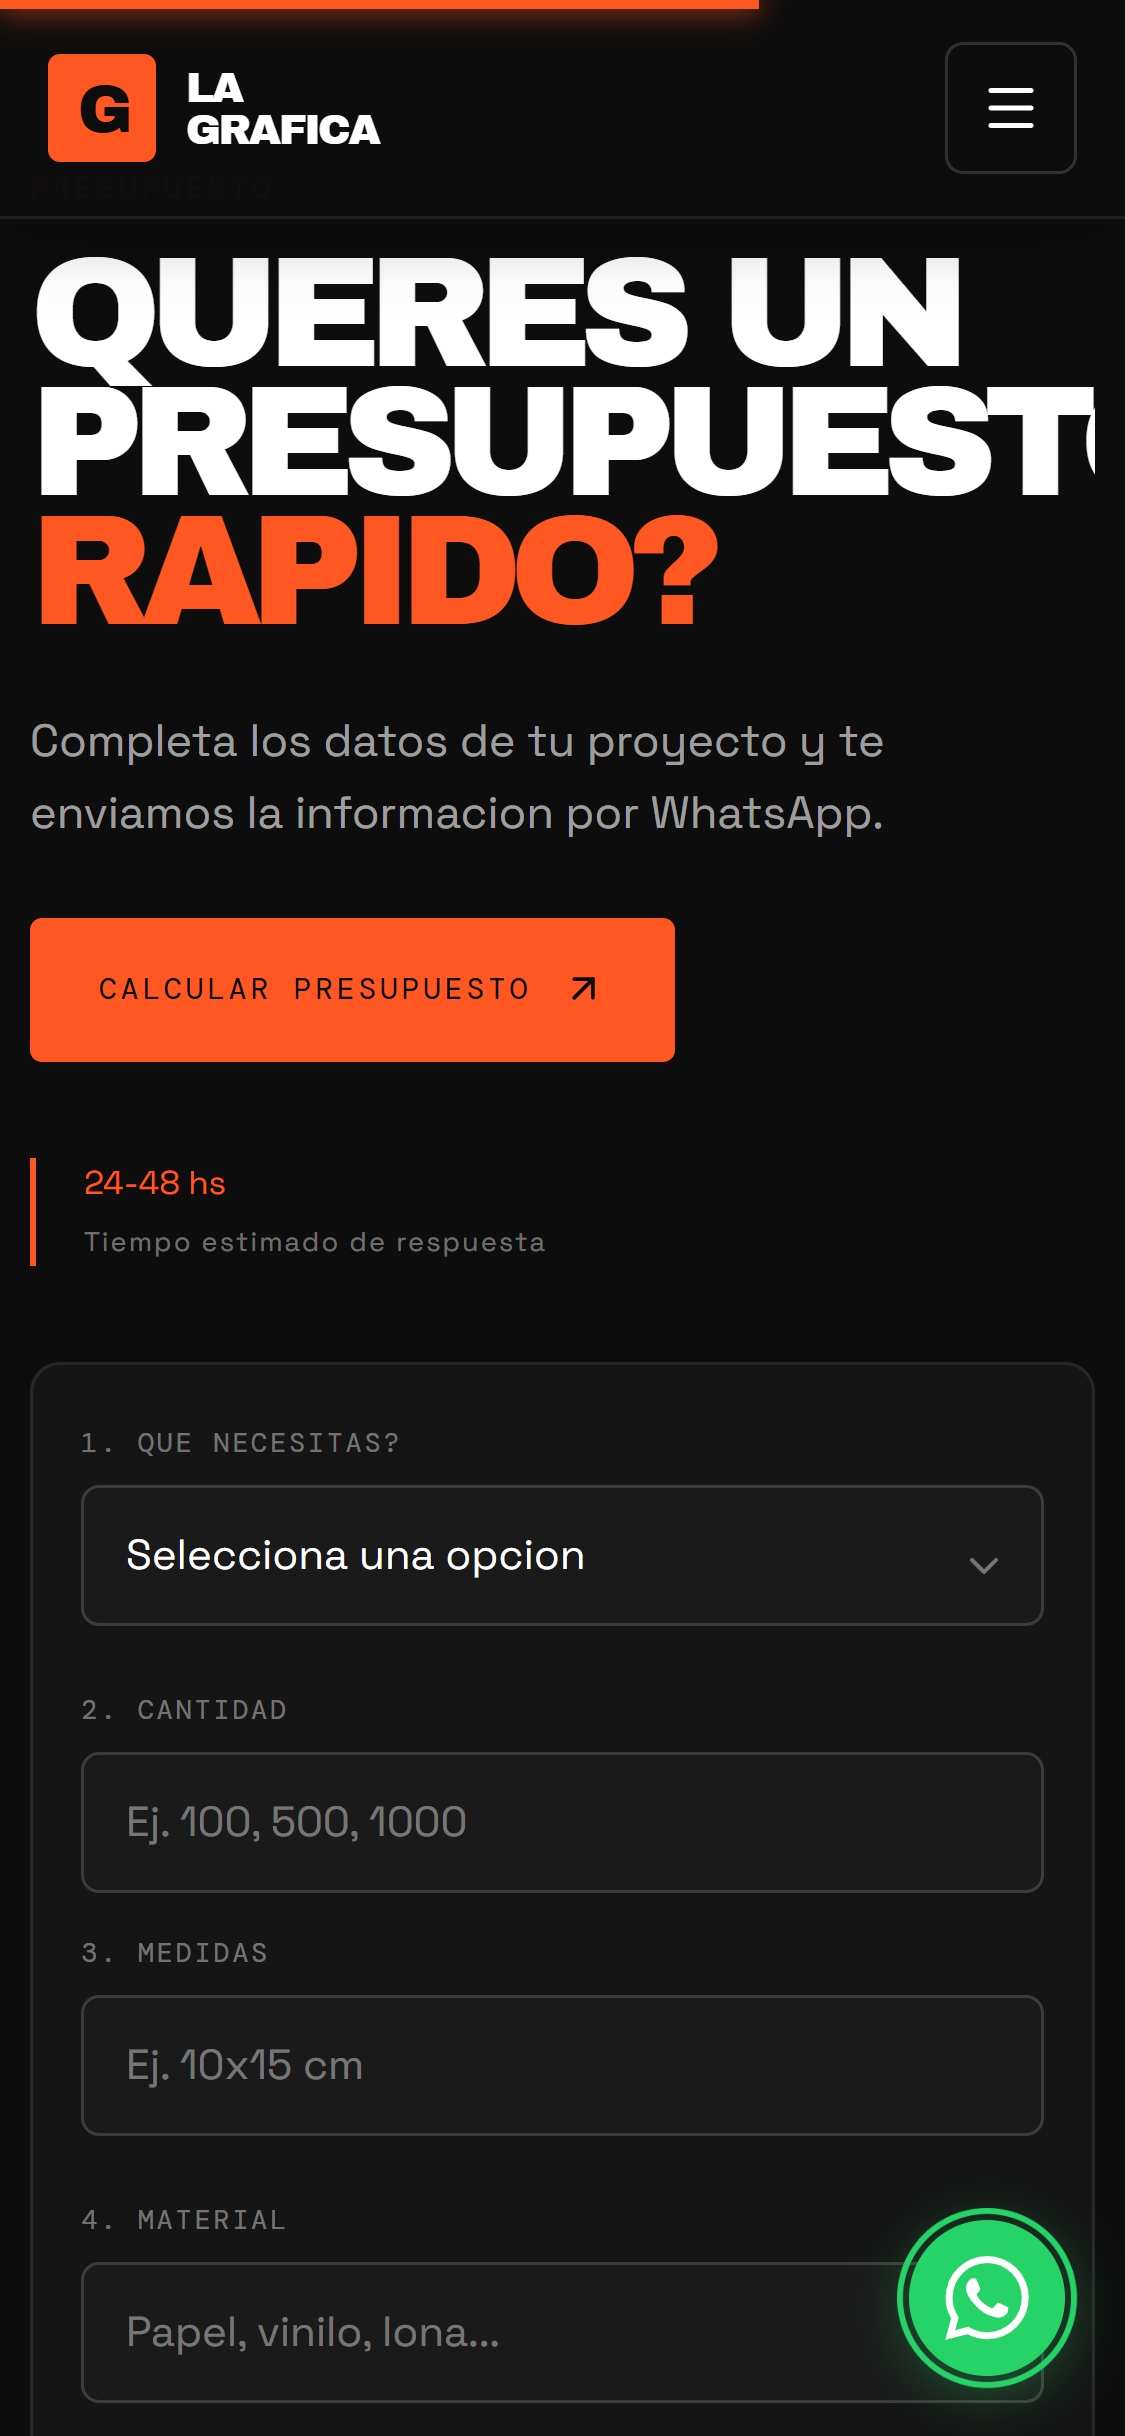
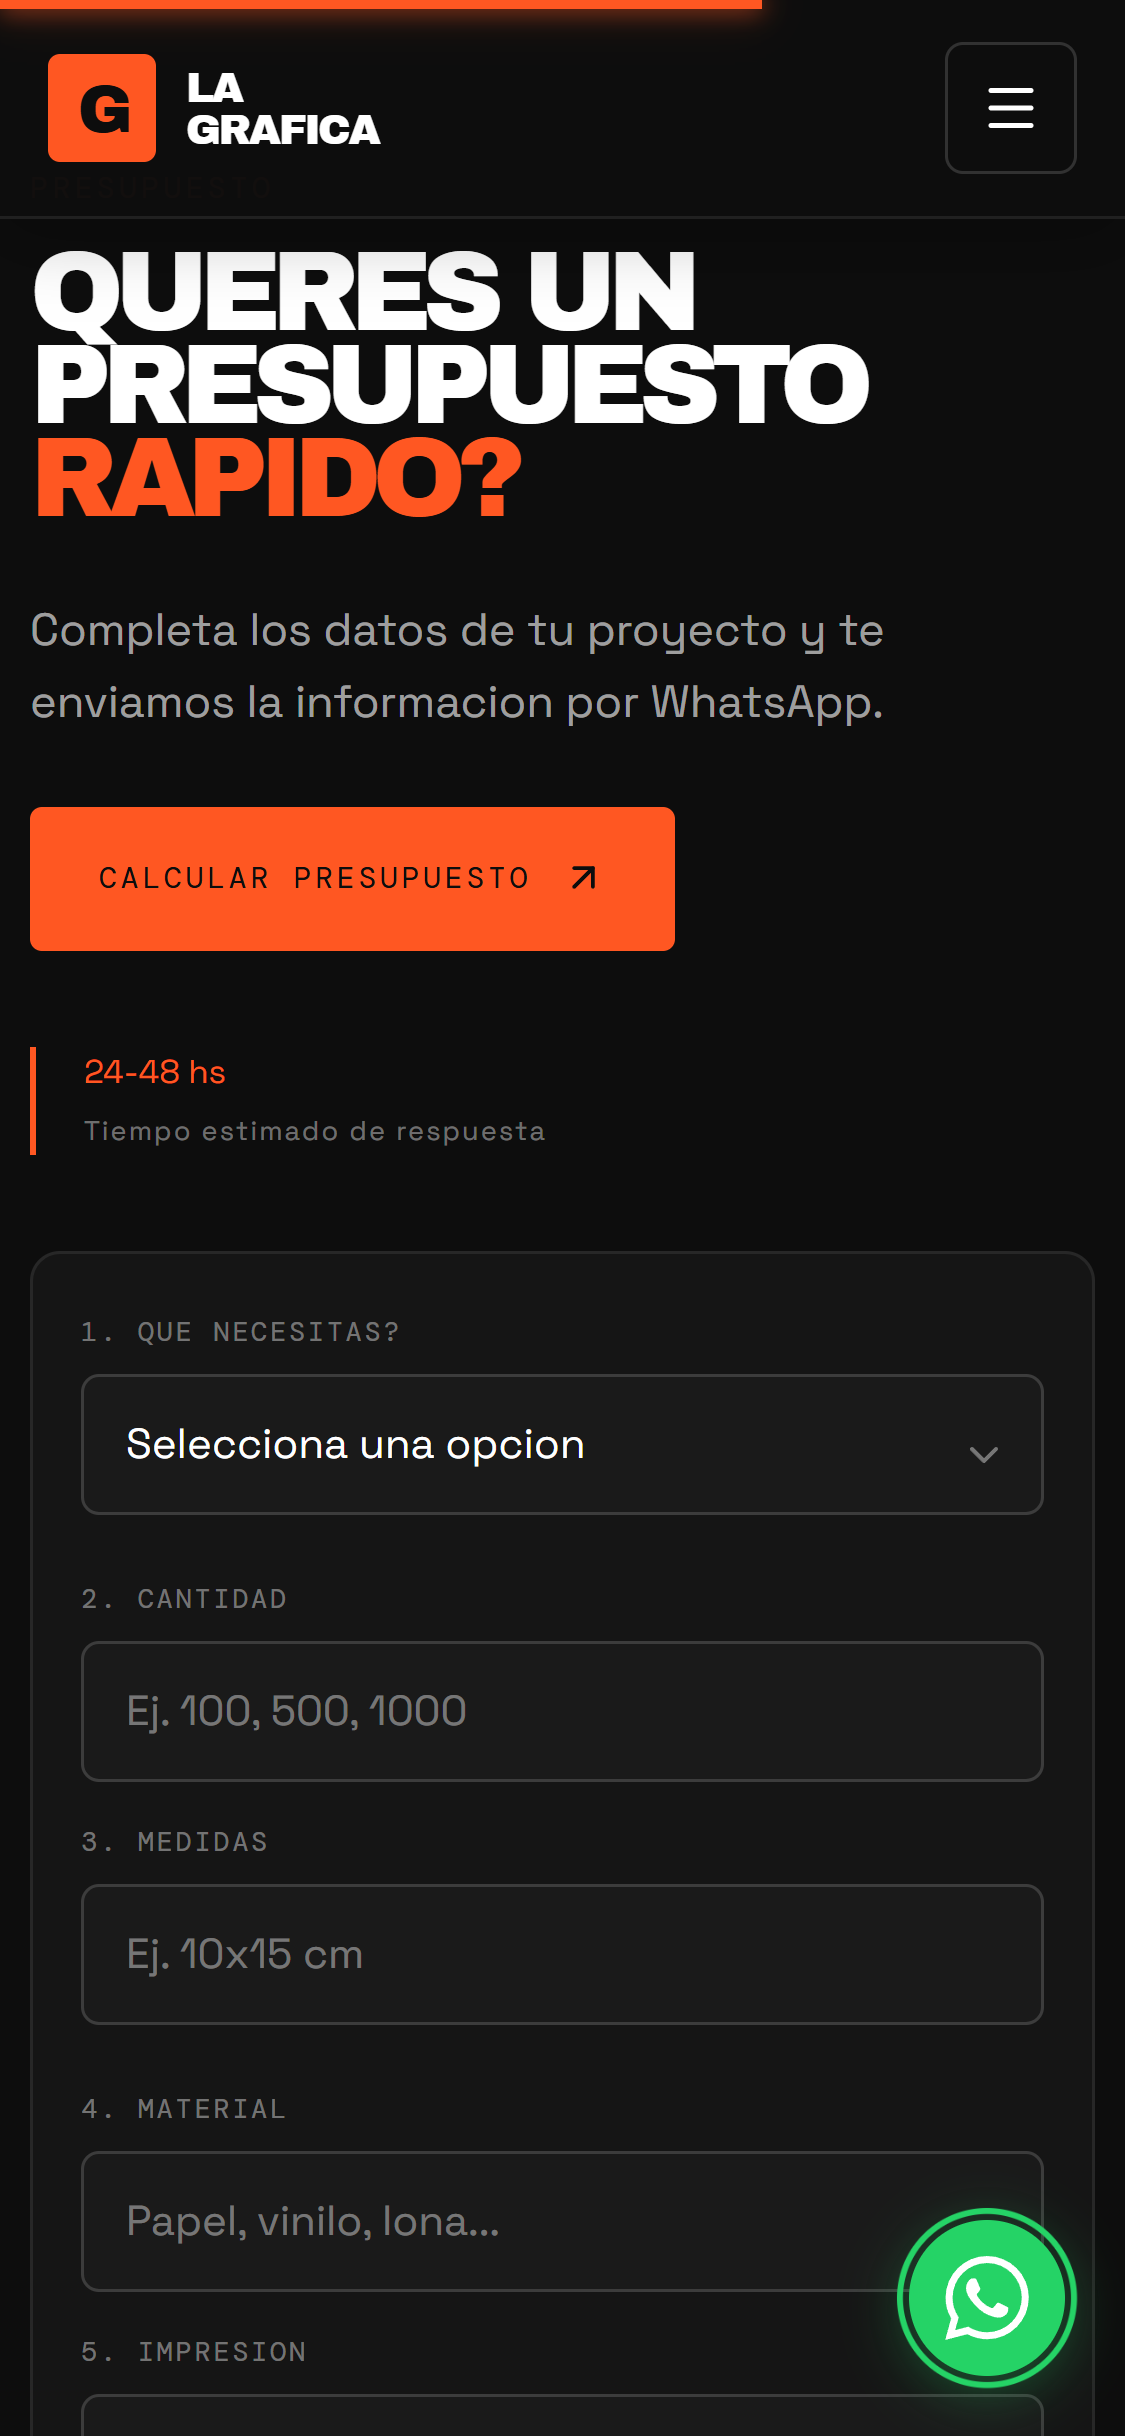
fix: filters mobile overflow, about overflow, contact data update, clickable map

diff --git a/artifacts/la-grafica/src/App.tsx b/artifacts/la-grafica/src/App.tsx
@@ -515,29 +515,29 @@ function Contact() {
         <div>
           <div className="mono-label orange-text" style={{ marginBottom: '12px' }}>Pasa a saludar</div>
           <h2 className="section-title" data-testid="text-contact-title">Estamos<br /><span>aca.</span></h2>
-          <p className="contact-description">Entre Villa Crespo y Chacarita. Atendemos con mate, muestras de papel y tiempo para pensar.</p>
+          <p className="contact-description">Las Heras & Chile, M5569 Eugenio Bustos, Mendoza. Atendemos con mate, muestras de papel y tiempo para pensar.</p>
           <div className="contact-info__grid">
-            <a href="mailto:hola@lagrafica.ar" className="contact-info__item" data-testid="link-contact-email">
+            <a href="mailto:servicioslagrafica@gmail.com" className="contact-info__item" data-testid="link-contact-email">
               <span className="contact-info__icon"><Mail size={18} /></span>
-              HOLA@LAGRAFICA.AR
+              SERVICIOSLAGRAFICA@GMAIL.COM
             </a>
-            <a href="tel:+541148320126" className="contact-info__item" data-testid="link-contact-phone">
+            <a href="tel:+5492622419096" className="contact-info__item" data-testid="link-contact-phone">
               <span className="contact-info__icon"><Phone size={18} /></span>
-              +54 11 4832 0126
+              +54 9 2622 419096
             </a>
             <div className="contact-info__item">
               <span className="contact-info__icon"><Clock size={18} /></span>
               LUN A VIE - 10 A 18 H
             </div>
-            <a href="https://instagram.com/lagrafica.estudio" className="contact-info__item" data-testid="link-contact-instagram" target="_blank" rel="noopener noreferrer">
+            <a href="https://instagram.com/lagraficaeugeniobustos" className="contact-info__item" data-testid="link-contact-instagram" target="_blank" rel="noopener noreferrer">
               <span className="contact-info__icon">
                 <svg width="18" height="18" viewBox="0 0 24 24" fill="none" stroke="currentColor" strokeWidth="2" strokeLinecap="round" strokeLinejoin="round"><rect x="2" y="2" width="20" height="20" rx="5" ry="5"/><path d="M16 11.37A4 4 0 1112.63 8 4 4 0 0116 11.37z"/><line x1="17.5" y1="6.5" x2="17.51" y2="6.5"/></svg>
               </span>
-              @LAGRAFICA.ESTUDIO
+              @LAGRAFICA.EUGENIOBUSTOS
             </a>
           </div>
         </div>
-        <div className="contact-map">
+        <a href="https://maps.google.com/?q=Las+Heras+Chile+M5569+Eugenio+Bustos+Mendoza+Argentina" target="_blank" rel="noopener noreferrer" className="contact-map" style={{textDecoration:'none'}} data-testid="link-map">
           <div className="contact-map__grid" />
           <div className="contact-map__lines" />
           <div className="contact-map__pin">
@@ -546,9 +546,9 @@ function Contact() {
             </div>
           </div>
           <div className="contact-map__label">
-            Av. Corrientes 5480<br />CABA - Buenos Aires
+            Las Heras & Chile, M5569<br />Eugenio Bustos, Mendoza
           </div>
-        </div>
+        </a>
       </div>
     </section>
   );
@@ -561,8 +561,8 @@ function Footer() {
         <div className="footer-top">
           <div className="footer-brand"><Logo /><h2>Que se<br /><span>note.</span></h2></div>
           <div className="footer-column"><p>Enlaces</p>{navLinks.map(([label, href]) => <a key={href} href={href} data-testid={`link-footer-${label.toLowerCase()}`}>{label}</a>)}</div>
-          <div className="footer-column"><p>Contacto</p><a href="mailto:hola@lagrafica.ar" data-testid="link-footer-email">hola@lagrafica.ar</a><a href="tel:+541148320126" data-testid="link-footer-phone">+54 11 4832 0126</a><a href="https://instagram.com/lagrafica.estudio" data-testid="link-footer-instagram">@lagrafica.estudio</a></div>
-          <div className="footer-column"><p>Ubicacion</p><span>Av. Corrientes 5480<br />CABA, Buenos Aires</span><span>Lun-Vie - 10 a 18 hs</span></div>
+          <div className="footer-column"><p>Contacto</p><a href="mailto:servicioslagrafica@gmail.com" data-testid="link-footer-email">servicioslagrafica@gmail.com</a><a href="tel:+5492622419096" data-testid="link-footer-phone">+54 9 2622 419096</a><a href="https://instagram.com/lagraficaeugeniobustos" data-testid="link-footer-instagram">@lagraficaeugeniobustos</a></div>
+          <div className="footer-column"><p>Ubicacion</p><span>Las Heras & Chile, M5569<br />Eugenio Bustos, Mendoza</span><span>Lun-Vie - 10 a 18 hs</span></div>
         </div>
         <div className="footer-bottom"><span>&copy; La Grafica 2024</span><span>Diseno, impresion y calle</span><a href="#inicio" data-testid="link-back-top">Volver arriba <ArrowUpRight size={13} /></a></div>
       </div>
@@ -579,7 +579,7 @@ function WhatsAppFAB() {
   }, []);
   return (
     <a
-      href="https://wa.me/541148320126"
+      href="https://wa.me/5492622419096"
       className={`whatsapp-fab ${visible ? 'whatsapp-fab--visible' : ''}`}
       target="_blank"
       rel="noopener noreferrer"

diff --git a/artifacts/la-grafica/src/index.css b/artifacts/la-grafica/src/index.css
@@ -933,13 +933,17 @@
 .contact-info__item:hover .contact-info__icon { transform: scale(1.1); }
 .contact-map {
   position: relative;
+  display: block;
   width: 100%;
   height: 400px;
   background: var(--dark-elevated);
   border-radius: 10px;
   border: 1px solid var(--border-subtle);
   overflow: hidden;
+  cursor: pointer;
+  transition: border-color .3s ease;
 }
+.contact-map:hover { border-color: var(--orange); }
 .contact-map__grid {
   position: absolute;
   inset: 0;
@@ -1238,6 +1242,8 @@
 
   /* Works */
   .works-header { flex-direction: column; align-items: flex-start; gap: 16px; }
+  .work-filters { width: 100%; }
+  .work-filters__scroll { width: 100%; }
   .work-filters::after { display: none; }
   .works-grid { grid-template-columns: 1fr; gap: 12px; }
   .work-card { min-height: 220px; }
@@ -1261,6 +1267,8 @@
 
   /* About */
   .about-layout { grid-template-columns: 1fr; gap: 40px; }
+  .about-layout .section-title { font-size: clamp(2rem, 10vw, 3rem); }
+  .about-description { max-width: 100%; }
   .about-stats { grid-template-columns: repeat(2, 1fr); gap: 12px; }
   .stat-card { padding: 18px 10px; }
 
